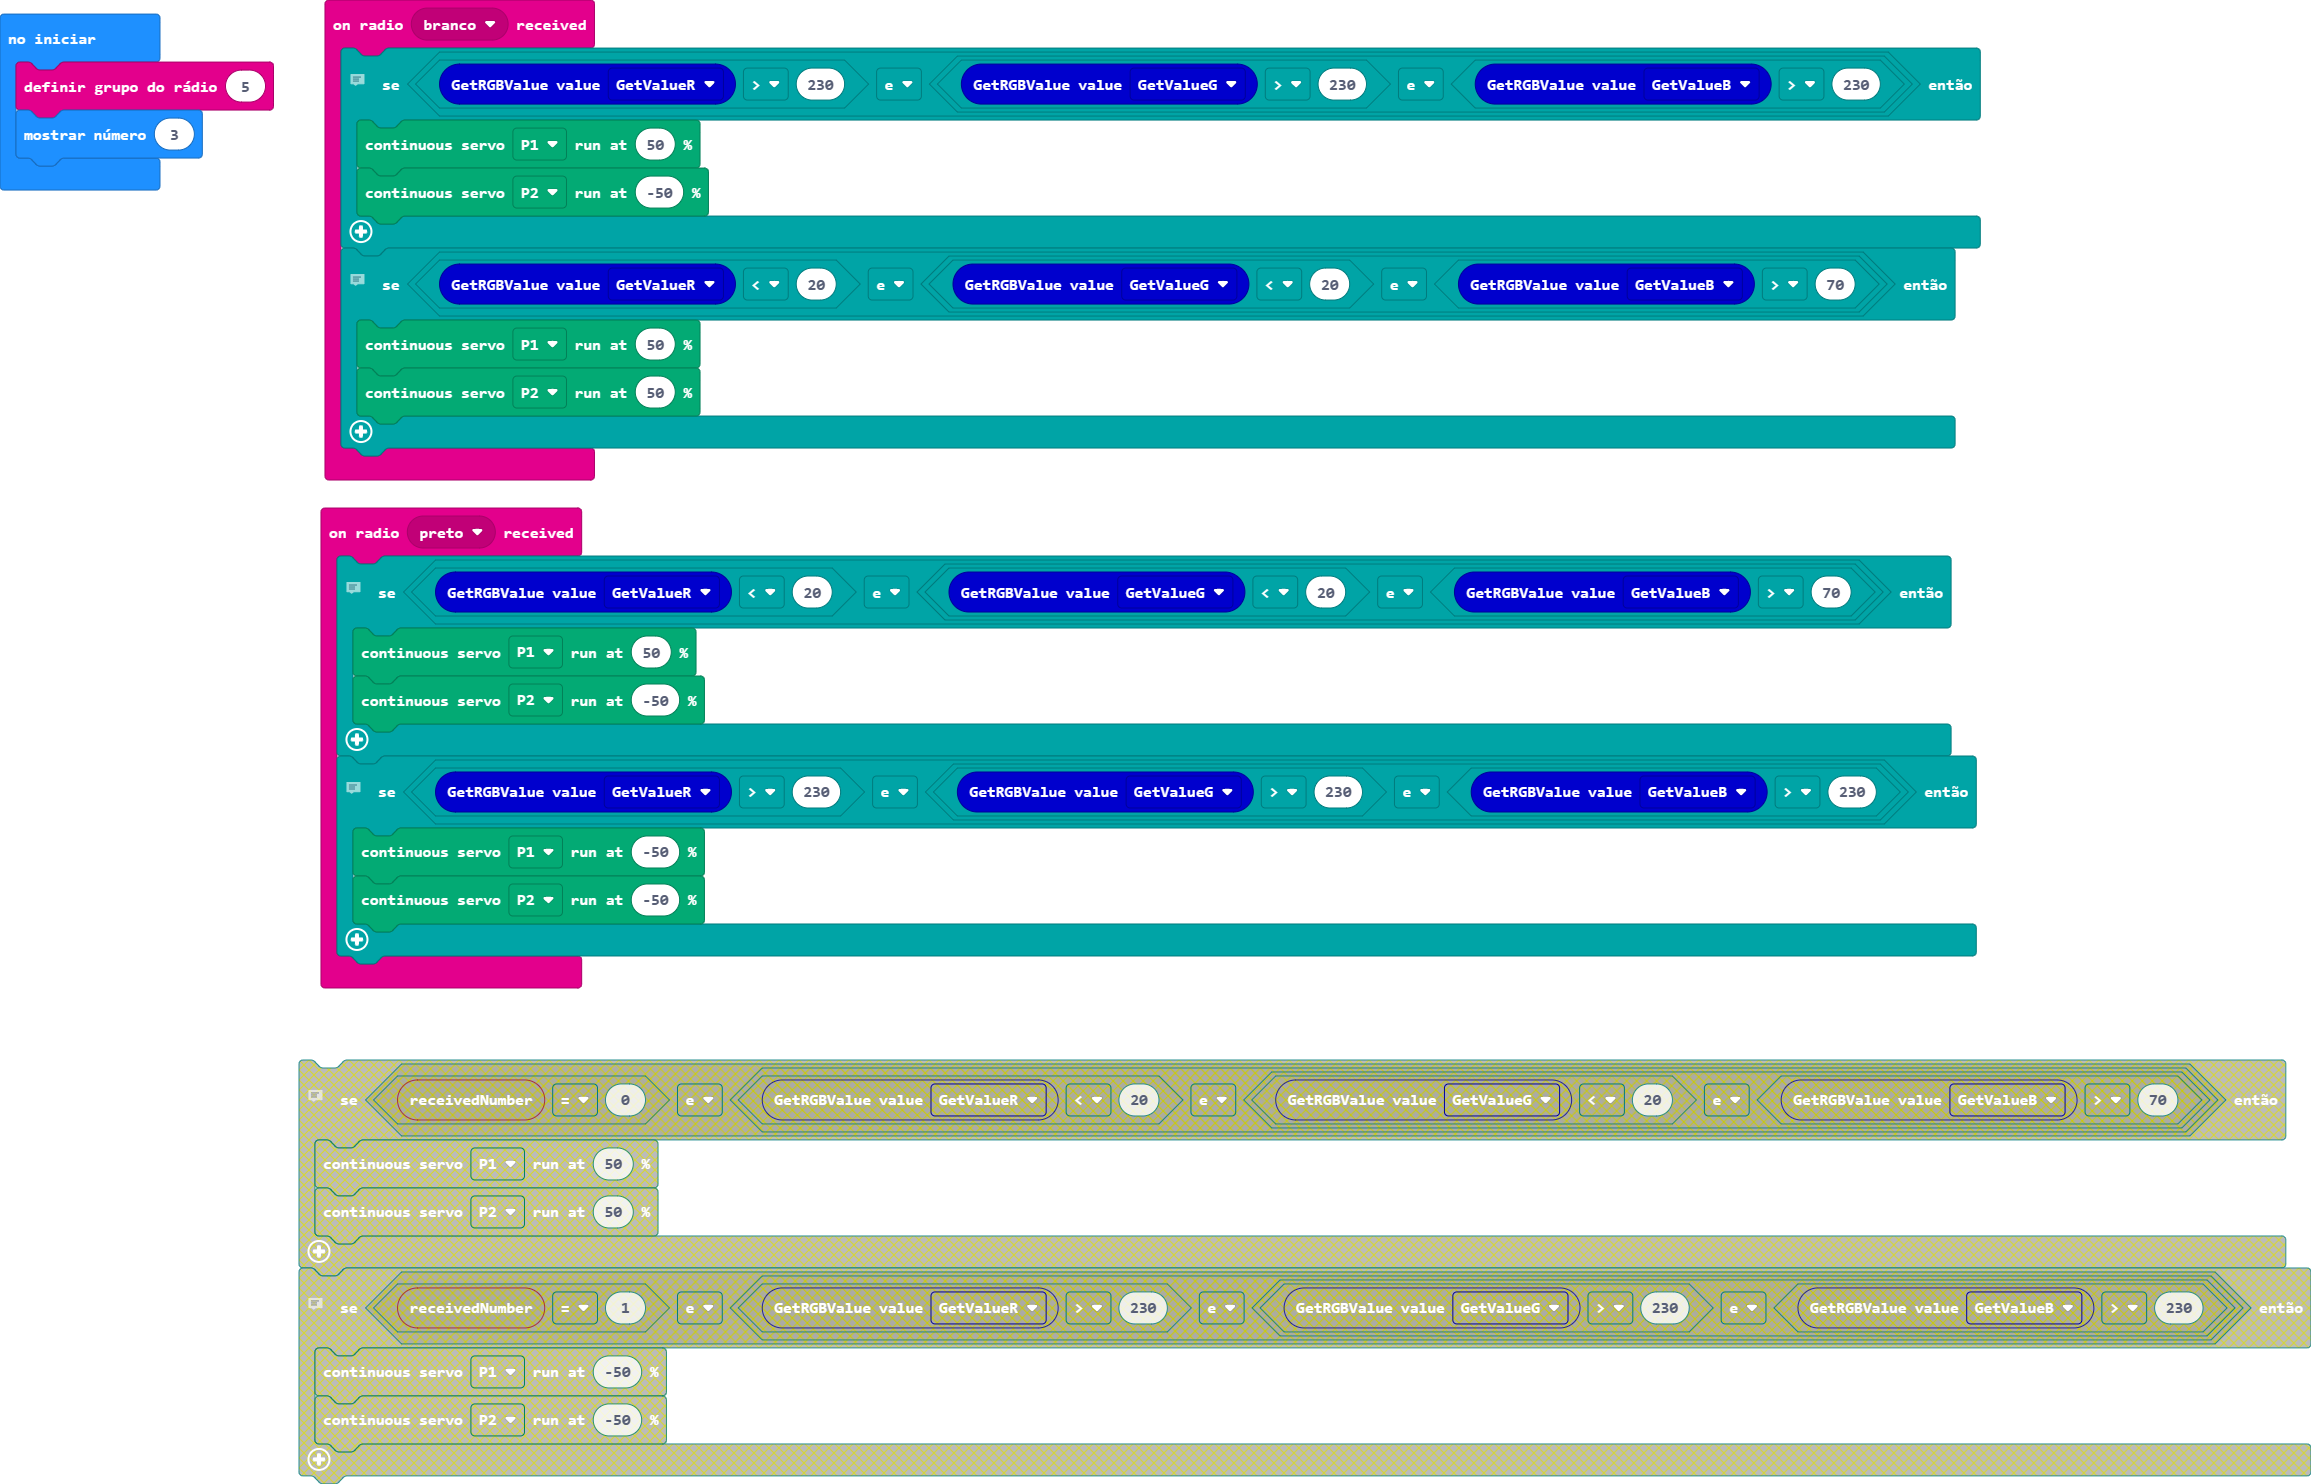
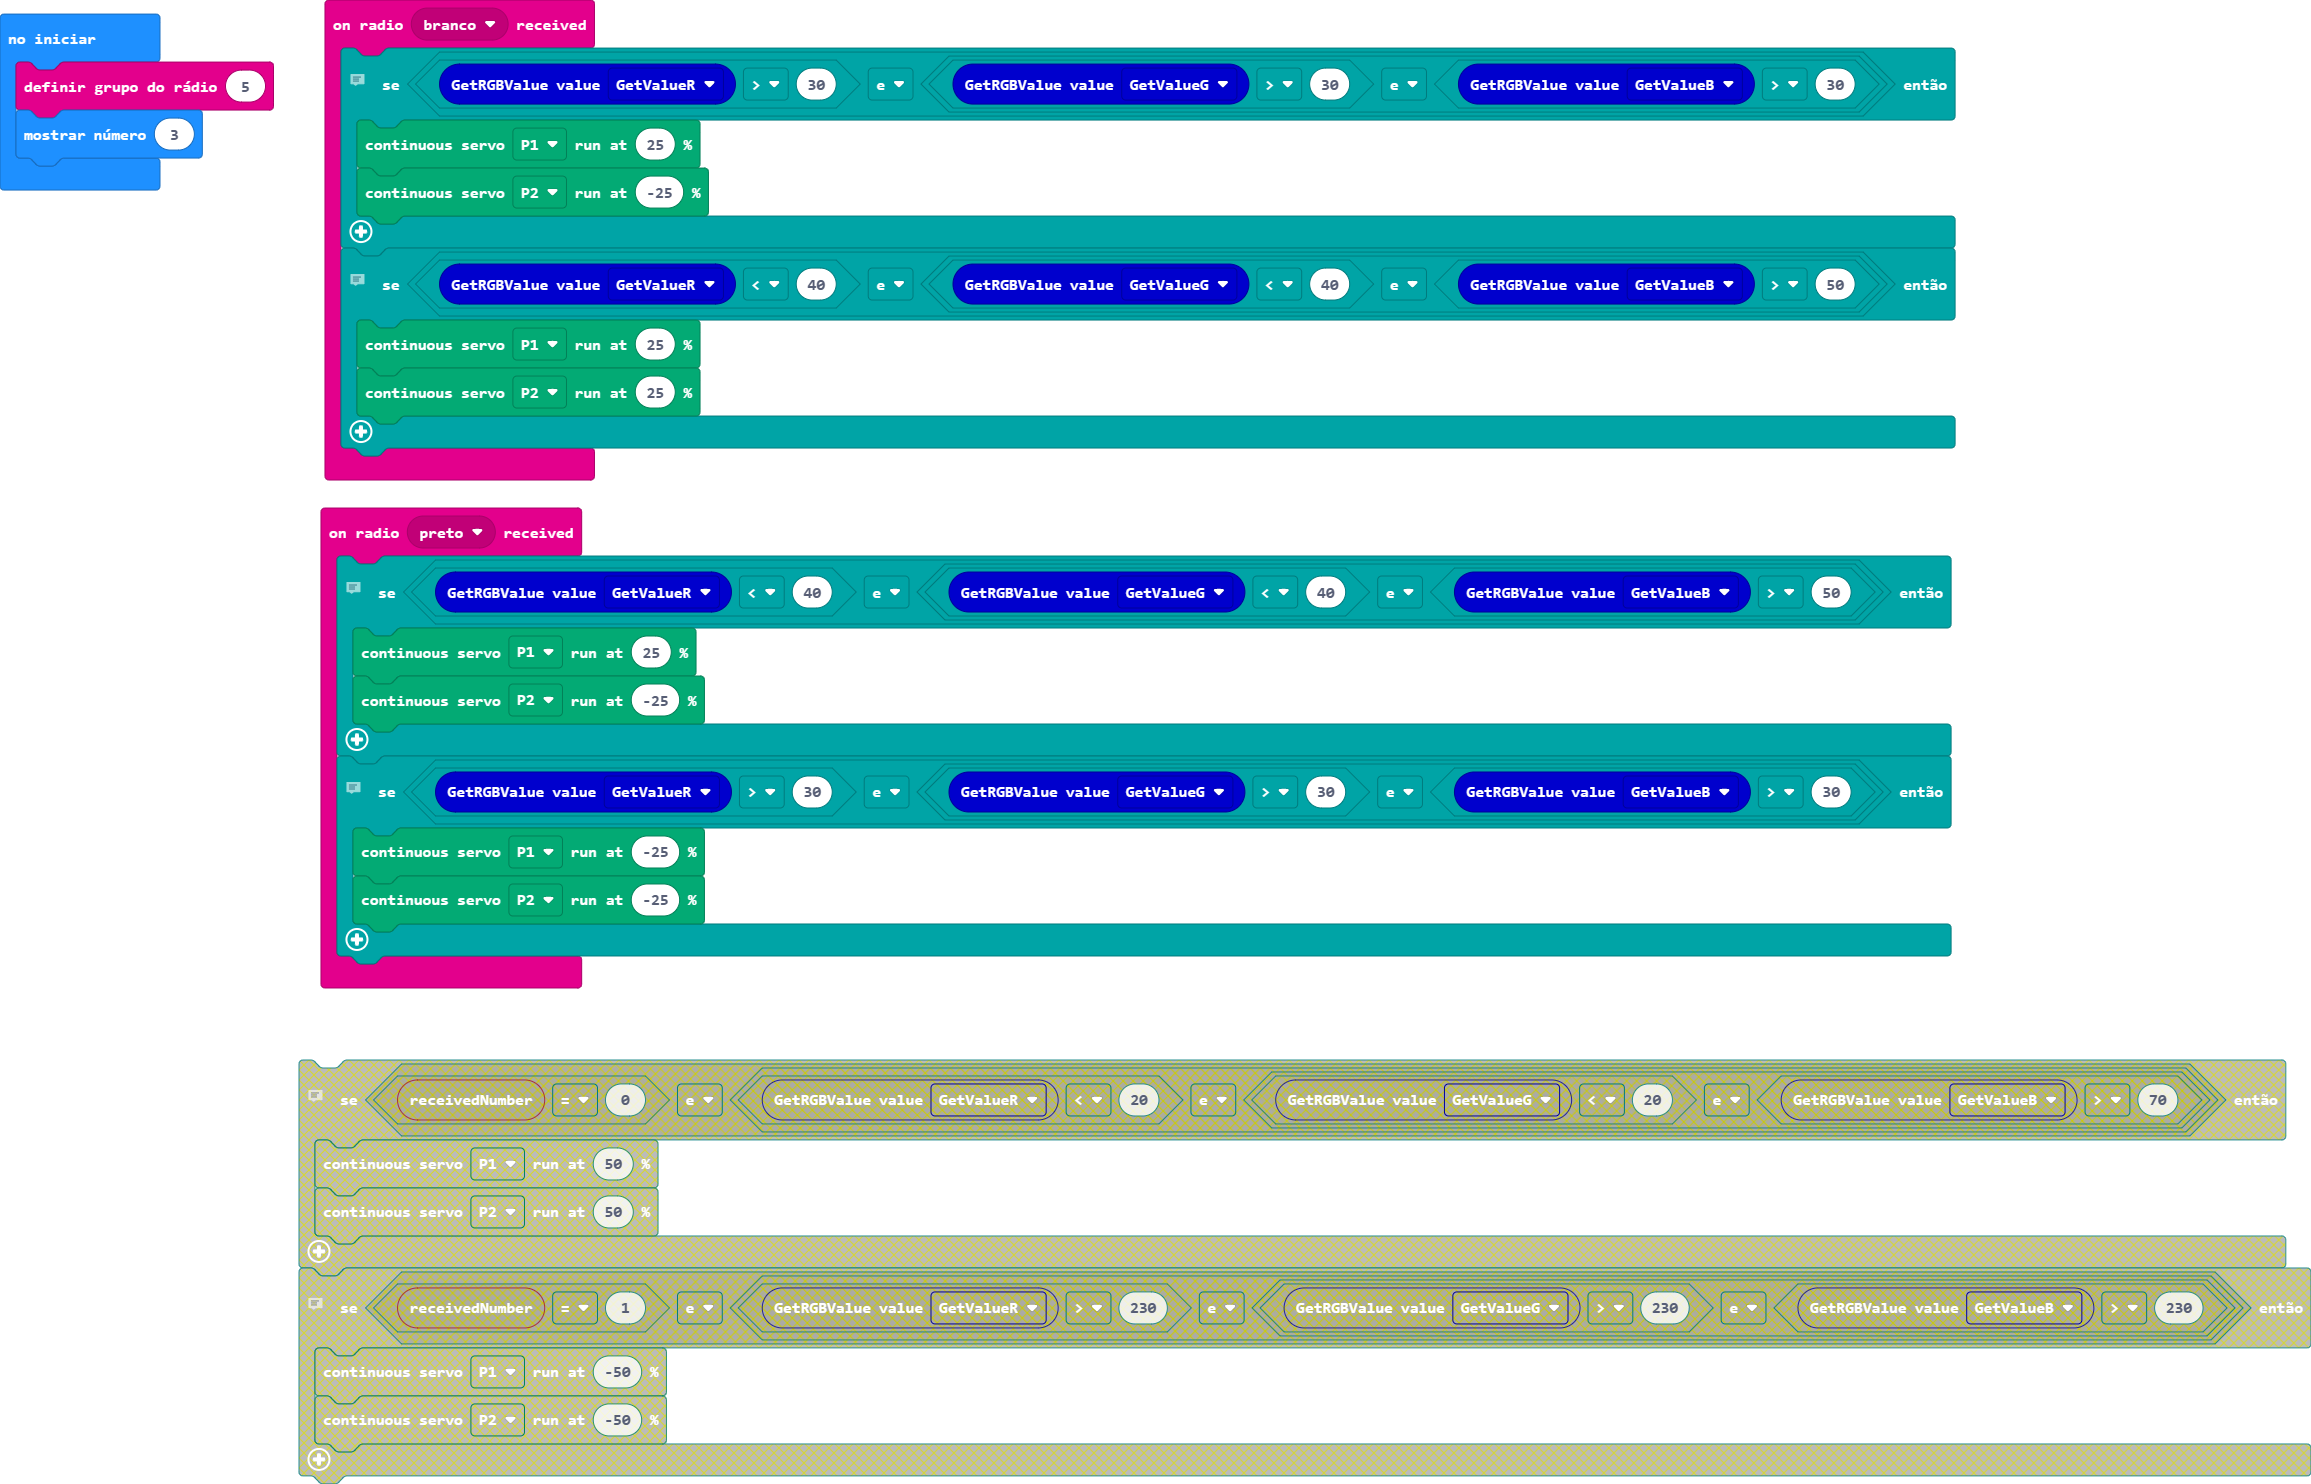
Atualizar 'main.blocks, main.ts'

diff --git a/main.ts b/main.ts
@@ -5,26 +5,26 @@ enum RadioMessage {
 }
 radio.onReceivedMessage(RadioMessage.branco, function () {
     // Branco e branco
-    if (Module_World_Color.GetRGBValue(Module_World_Color.enGetRGB.GetValueR) > 230 && (Module_World_Color.GetRGBValue(Module_World_Color.enGetRGB.GetValueG) > 230 && Module_World_Color.GetRGBValue(Module_World_Color.enGetRGB.GetValueB) > 230)) {
-        servos.P1.run(50)
-        servos.P2.run(-50)
+    if (Module_World_Color.GetRGBValue(Module_World_Color.enGetRGB.GetValueR) > 30 && (Module_World_Color.GetRGBValue(Module_World_Color.enGetRGB.GetValueG) > 30 && Module_World_Color.GetRGBValue(Module_World_Color.enGetRGB.GetValueB) > 30)) {
+        servos.P1.run(25)
+        servos.P2.run(-25)
     }
     // Branco e preto
-    if (Module_World_Color.GetRGBValue(Module_World_Color.enGetRGB.GetValueR) < 20 && (Module_World_Color.GetRGBValue(Module_World_Color.enGetRGB.GetValueG) < 20 && Module_World_Color.GetRGBValue(Module_World_Color.enGetRGB.GetValueB) > 70)) {
-        servos.P1.run(50)
-        servos.P2.run(50)
+    if (Module_World_Color.GetRGBValue(Module_World_Color.enGetRGB.GetValueR) < 40 && (Module_World_Color.GetRGBValue(Module_World_Color.enGetRGB.GetValueG) < 40 && Module_World_Color.GetRGBValue(Module_World_Color.enGetRGB.GetValueB) > 50)) {
+        servos.P1.run(25)
+        servos.P2.run(25)
     }
 })
 radio.onReceivedMessage(RadioMessage.preto, function () {
     // Preto e preto
-    if (Module_World_Color.GetRGBValue(Module_World_Color.enGetRGB.GetValueR) < 20 && (Module_World_Color.GetRGBValue(Module_World_Color.enGetRGB.GetValueG) < 20 && Module_World_Color.GetRGBValue(Module_World_Color.enGetRGB.GetValueB) > 70)) {
-        servos.P1.run(50)
-        servos.P2.run(-50)
+    if (Module_World_Color.GetRGBValue(Module_World_Color.enGetRGB.GetValueR) < 40 && (Module_World_Color.GetRGBValue(Module_World_Color.enGetRGB.GetValueG) < 40 && Module_World_Color.GetRGBValue(Module_World_Color.enGetRGB.GetValueB) > 50)) {
+        servos.P1.run(25)
+        servos.P2.run(-25)
     }
     // Preto e branco
-    if (Module_World_Color.GetRGBValue(Module_World_Color.enGetRGB.GetValueR) > 230 && (Module_World_Color.GetRGBValue(Module_World_Color.enGetRGB.GetValueG) > 230 && Module_World_Color.GetRGBValue(Module_World_Color.enGetRGB.GetValueB) > 230)) {
-        servos.P1.run(-50)
-        servos.P2.run(-50)
+    if (Module_World_Color.GetRGBValue(Module_World_Color.enGetRGB.GetValueR) > 30 && (Module_World_Color.GetRGBValue(Module_World_Color.enGetRGB.GetValueG) > 30 && Module_World_Color.GetRGBValue(Module_World_Color.enGetRGB.GetValueB) > 30)) {
+        servos.P1.run(-25)
+        servos.P2.run(-25)
     }
 })
 radio.setGroup(5)
